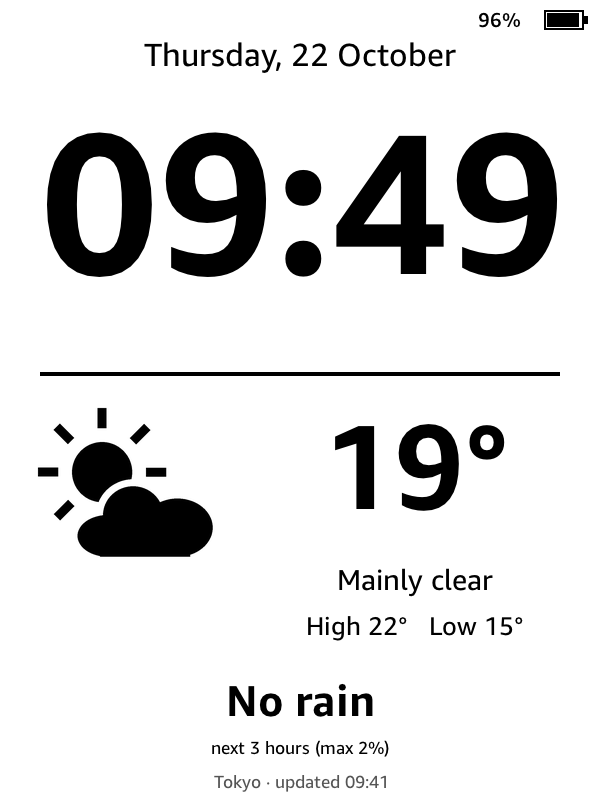
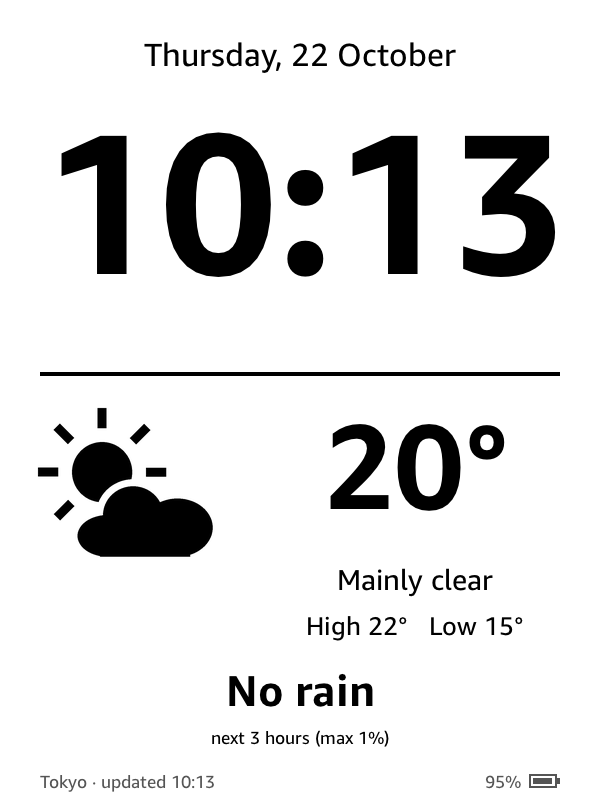
Move battery gauge into a bottom status bar aligned to the content margins

diff --git a/README.md b/README.md
@@ -10,7 +10,7 @@ Turn an old Kindle into an always-on **clock and weather display**.
 - Large clock, updated every minute
 - Temperature, conditions and today's high/low from [Open-Meteo](https://open-meteo.com/) (no API key)
 - Rain at a glance: **No rain** for the next 3 hours, or a black banner such as **Rain from 14:00 (60%)**
-- Battery gauge; the power button returns to the normal Kindle UI
+- Quiet status bar: place, last weather update, and battery (turns black below 20 %); the power button returns to the normal Kindle UI
 - Runs entirely on the Kindle (shell script + [FBInk](https://github.com/NiLuJe/FBInk)), no server needed
 
 Tested on a Kindle 7th gen (KT2, 600×800) with firmware 5.8.11. Other models in
